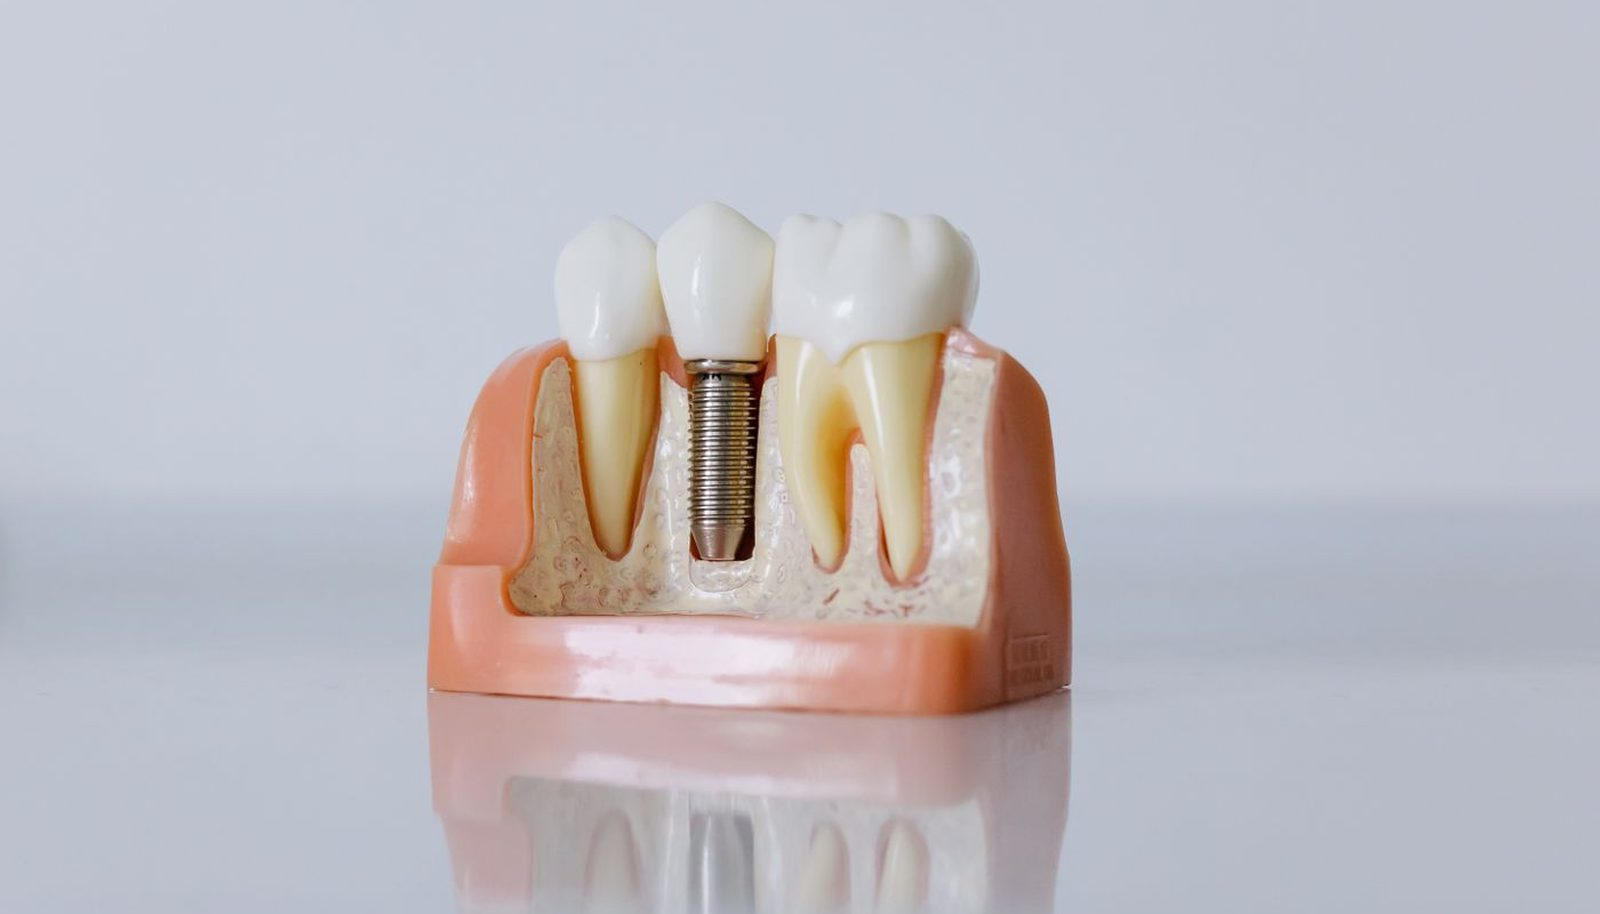
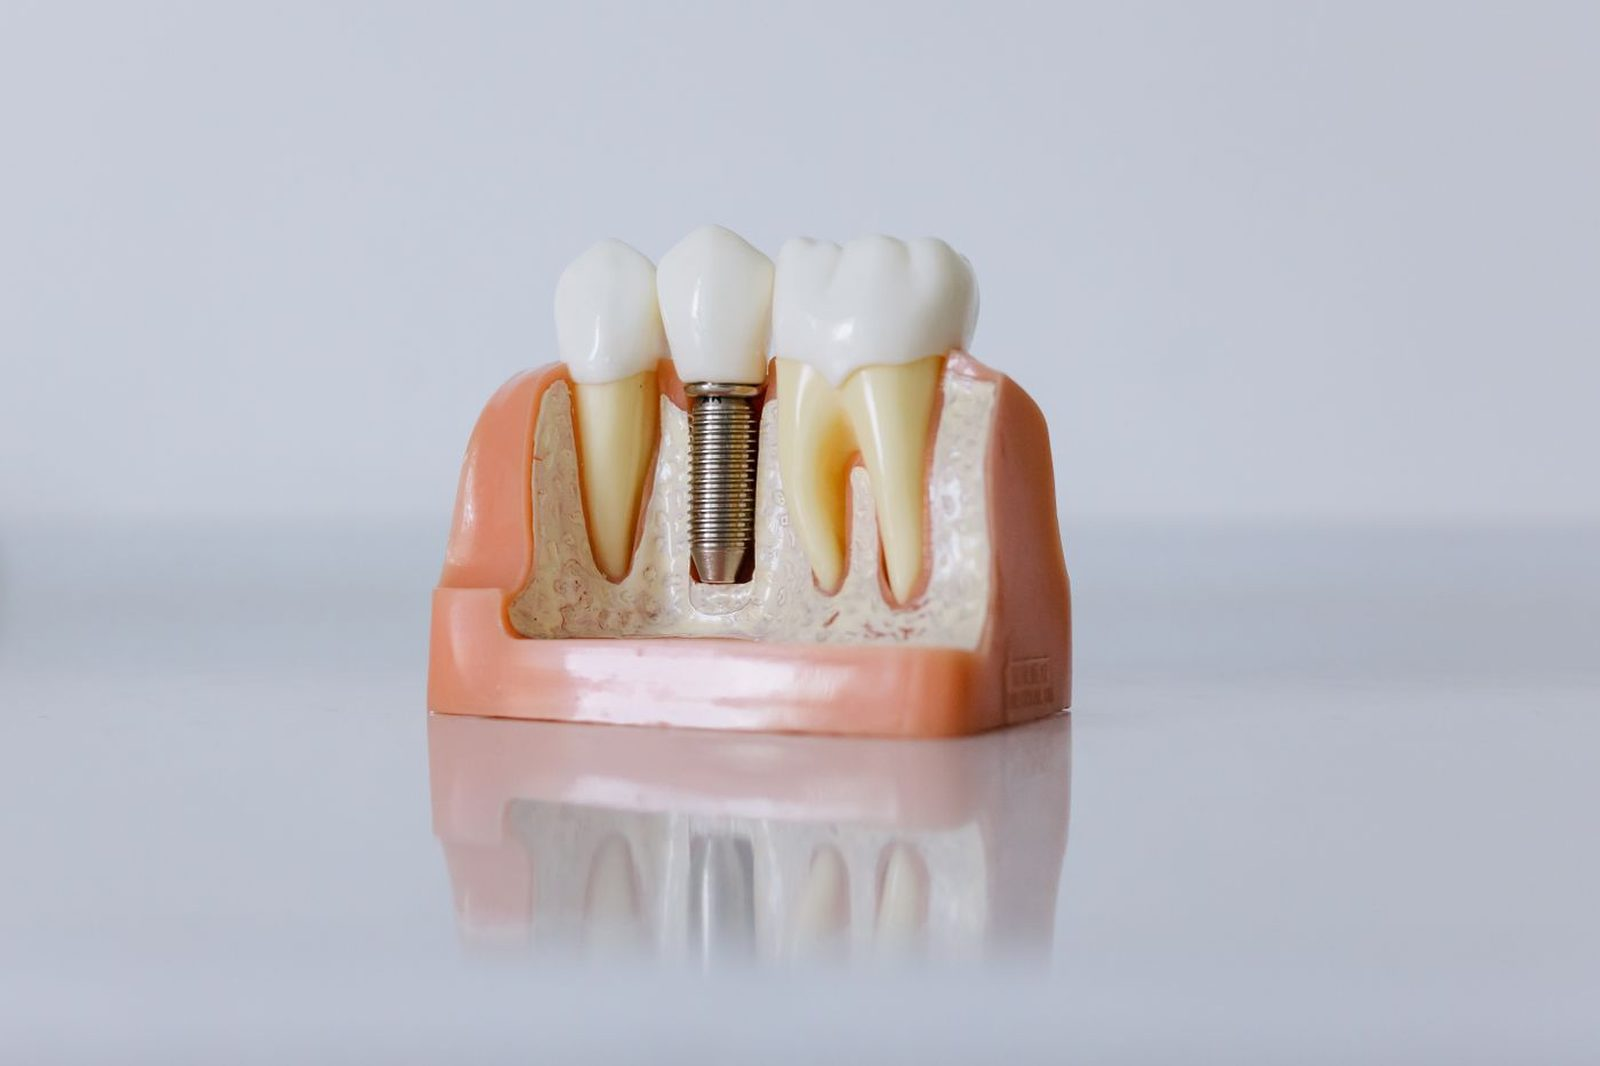
Implant bandi: tam kadraj + %92 netlik + daha yuksek bant

diff --git a/index.html b/index.html
@@ -269,13 +269,13 @@
   @media (max-width:560px){.dizin{grid-template-columns:1fr}}
 
   /* --- dekoratif bantlar --- */
-  .bant{position:relative;height:clamp(170px,24vw,290px);overflow:hidden;
+  .bant{position:relative;height:clamp(200px,28vw,360px);overflow:hidden;
     border-top:1px solid var(--cizgi);border-bottom:1px solid var(--cizgi)}
   .bant img{position:absolute;left:0;top:-12%;width:100%;height:124%;
     object-fit:cover;opacity:.88;will-change:transform;display:block;
     -webkit-mask-image:linear-gradient(90deg,transparent,#000 14%,#000 86%,transparent);
     mask-image:linear-gradient(90deg,transparent,#000 14%,#000 86%,transparent)}
-  .bant-yumusak img{opacity:.72}
+  .bant-yumusak img{opacity:.92}
   .bant::before,.bant::after{content:"";position:absolute;left:0;right:0;
     height:22%;z-index:1;pointer-events:none}
   .bant::before{top:0;background:linear-gradient(var(--kagit),transparent)}
